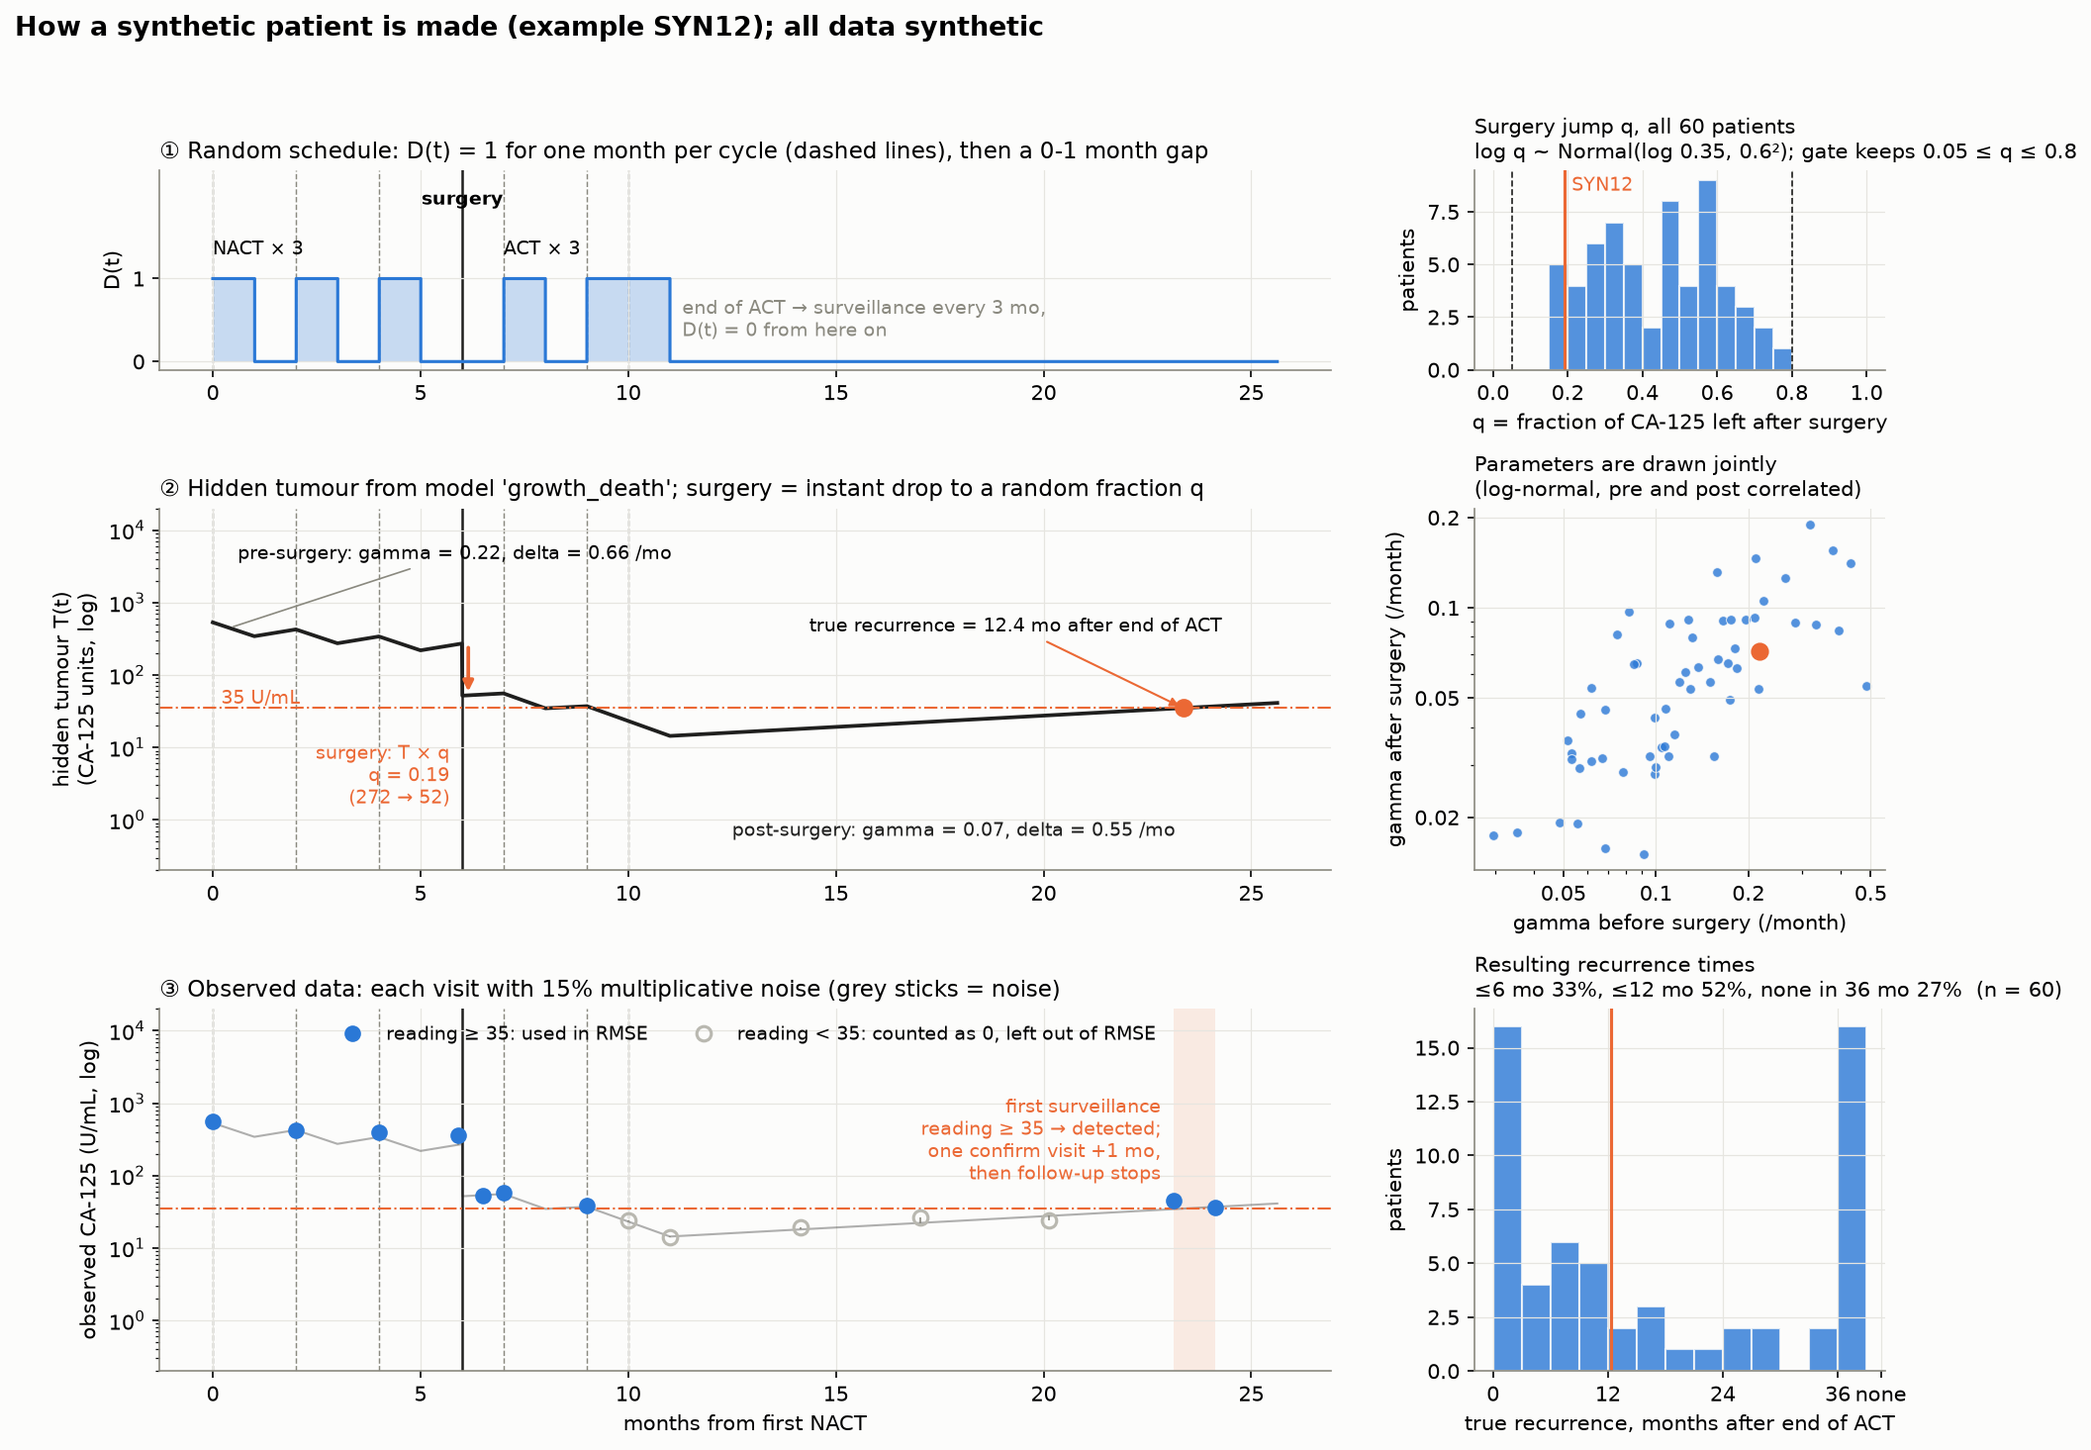
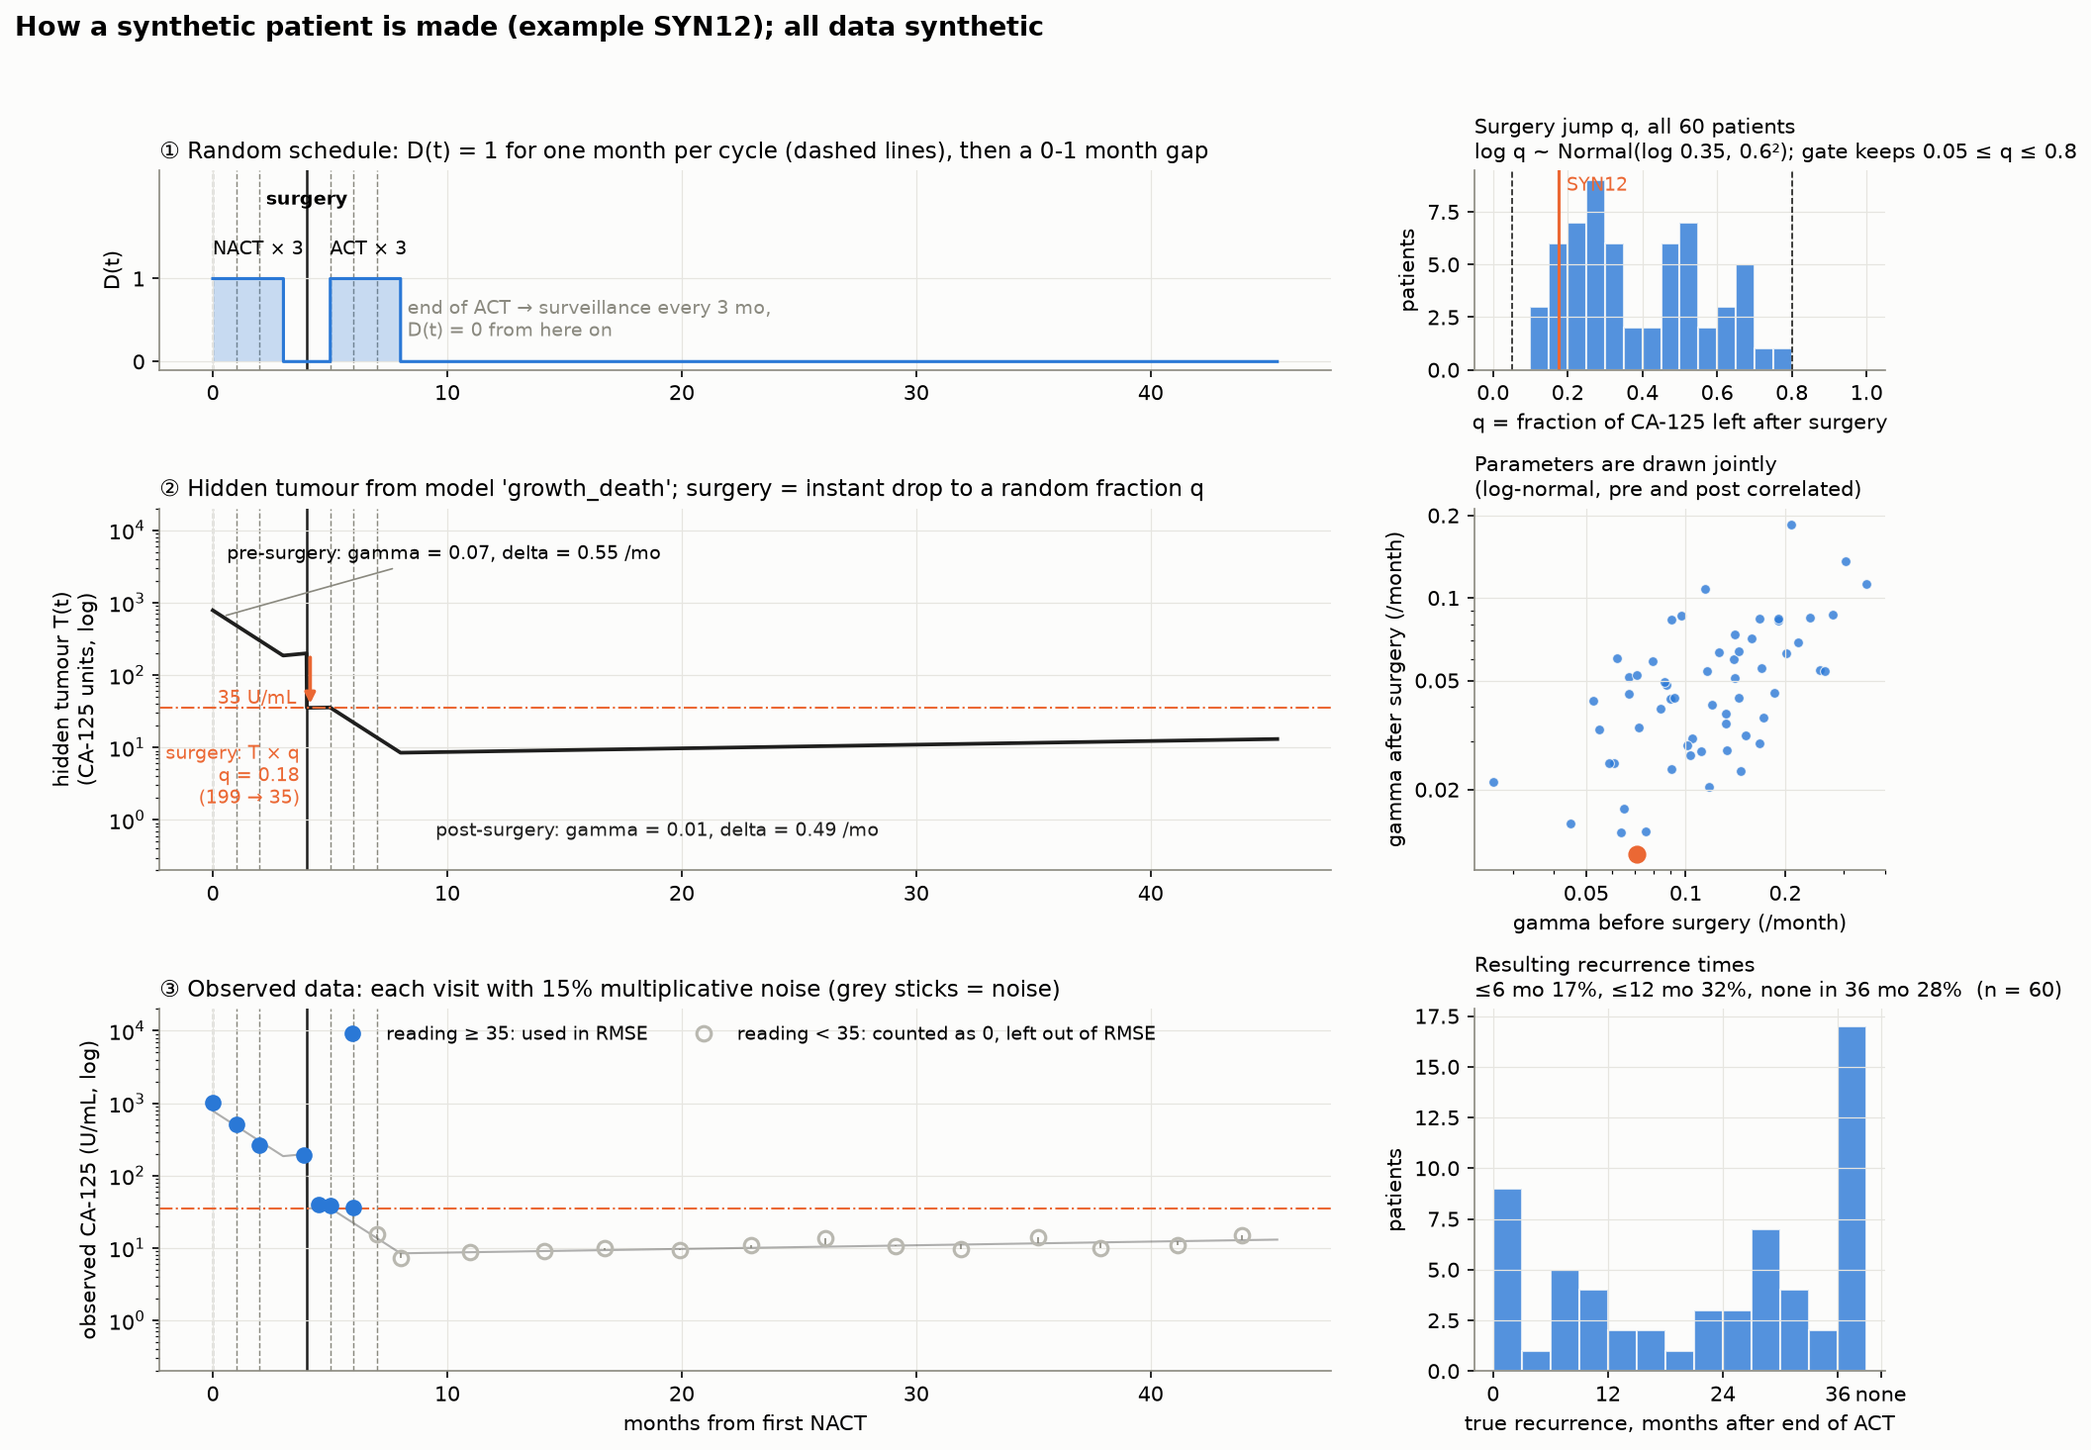
Daily synthetic data format: one CSV row per patient-day
- data/synthetic_data.csv replaces the previous CSVs. Core columns: tumor_burden (model
  value), CA125 (with noise), time (day), treatment_applied (D(t)).
- Auxiliary columns: patient, model, cohort and per-patient seeds, phase, visit flag,
  noise level, model parameters, q, schedule and true/detected recurrence.
- Clinic readings are the daily rows on visit days; load() rebuilds readings and truth
  from the single file. Each patient has its own seed and can be regenerated alone.

diff --git a/ovca/generator.py b/ovca/generator.py
@@ -4,13 +4,14 @@ Two steps, usable on their own:
   1. sample_parameters(): typical-patient values + population spread -> one PatientParameters
      (model parameters before/after surgery, baseline CA-125, surgery fraction q, schedule).
      You can also build a PatientParameters by hand and skip this step.
-  2. generate_longitudinal(): PatientParameters + model -> CA-125 readings at clinic visits,
+  2. generate_longitudinal(): PatientParameters + model -> daily tumour burden and CA-125,
      with assay noise, surveillance and recurrence detection, plus the true recurrence time.
 
 generate_cohort() repeats both for N patients.  Run:  .venv/bin/python -m ovca.generator
-Outputs (data/): synthetic_ca125.csv and synthetic_treatments.csv (what a clinician would see:
-readings, and treatment cycles and surgery) and synthetic_truth.csv (true parameters and
-recurrence times, for checking only).
+Output: data/synthetic_data.csv, one row per patient-day. Columns: tumor_burden (model value),
+CA125 (with noise), time (day), treatment_applied (D(t)), then auxiliary columns: patient,
+model, seeds, phase, visit (1 = clinic reading that day), noise_sd_log, model parameters,
+ca125_0, q_surgery, schedule and true recurrence (these are in months).
 """
 from pathlib import Path
 
@@ -19,7 +20,7 @@ import pandas as pd
 
 from . import config as C
 from .models import BaseModel, get_model
-from .patient import PatientParameters, Schedule
+from .patient import PatientParameters, Schedule, drug_on
 
 DATA = Path(__file__).resolve().parents[1] / "data"
 
@@ -113,76 +114,114 @@ def visit_times(p: PatientParameters, rng):
                            s.act_starts, [s.t_end], surv])
 
 
-def treatment_table(p: PatientParameters):
-    """One row per treatment event: NACT and ACT cycles (start, end) and surgery."""
+DAILY_COLUMNS = ["tumor_burden", "CA125", "time", "treatment_applied"]
+DATA_FILE = "synthetic_data.csv"
+
+
+def daily_table(model: BaseModel, p: PatientParameters, rng, noise_sd=C.NOISE_SD_LOG,
+                seeds=None):
+    """One row per day from day 0 to the end of follow-up (end of ACT + FOLLOWUP_MONTHS).
+
+    tumor_burden: the generating model's noise-free value; CA125: tumor_burden with
+    multiplicative noise; time: day; treatment_applied: D(t), 1 while a cycle is on, else 0.
+    """
     s = p.schedule
-    rows = [dict(patient=p.patient_id, treatment="NACT", cycle=i + 1, start_month=x,
-                 end_month=x + s.duration) for i, x in enumerate(s.nact_starts)]
-    rows.append(dict(patient=p.patient_id, treatment="surgery", cycle=np.nan,
-                     start_month=s.t_surgery, end_month=s.t_surgery))
-    rows += [dict(patient=p.patient_id, treatment="ACT", cycle=i + 1, start_month=x,
-                  end_month=x + s.duration) for i, x in enumerate(s.act_starts)]
-    return pd.DataFrame(rows)
+    days = np.arange(0, int(round((s.t_end + C.FOLLOWUP_MONTHS) * C.DAYS_PER_MONTH)) + 1)
+    t = days / C.DAYS_PER_MONTH
+    burden = model.simulate_patient(t, p)
+    iv = np.vstack([s.intervals("pre"), s.intervals("post")])
+    return pd.DataFrame({"tumor_burden": burden,
+                         "CA125": burden * np.exp(rng.normal(0, noise_sd, days.size)),
+                         "time": days,
+                         "treatment_applied": drug_on(t, iv).astype(int),
+                         "patient": p.patient_id, "model": p.model, **(seeds or {}),
+                         "phase": np.where(t < s.t_surgery, "pre", "post"),
+                         "noise_sd_log": noise_sd})
 
 
 def generate_longitudinal(model: BaseModel, p: PatientParameters, rng,
-                          noise_sd=C.NOISE_SD_LOG, cutoff=C.CA125_CUTOFF):
-    """CA-125 readings for one patient, and a truth record.
+                          noise_sd=C.NOISE_SD_LOG, cutoff=C.CA125_CUTOFF, seeds=None):
+    """The daily data of one patient, plus its clinic readings and truth record.
 
-    Recurrence is detected at the first surveillance reading >= cutoff; one confirming visit
-    follows a month later, then follow-up stops.
+    Clinic readings are the rows on visit days (flagged visit = 1), so a visit shows exactly the
+    CA125 of that day. Recurrence is detected at the first surveillance reading >= cutoff; one
+    confirming visit follows a month later, then clinic visits stop. The daily rows always run
+    to the end of follow-up. Patient parameters, schedule and true recurrence are added as
+    constant columns.
     """
     s = p.schedule
-    t = visit_times(p, rng)
-    true = model.simulate_patient(t, p)
-    noisy = true * np.exp(rng.normal(0, noise_sd, t.size))
-    obs = pd.DataFrame(dict(patient=p.patient_id, month=np.round(t, 4),
-                            phase=np.where(t < s.t_surgery, "pre", "post"),
-                            ca125=noisy, ca125_true=true))
-    is_surv = obs.month > s.t_end + 1e-6
-    hit = obs[is_surv & (obs.ca125 >= cutoff)]
+    daily = daily_table(model, p, rng, noise_sd, seeds)
+    vdays = np.unique(np.clip(np.round(visit_times(p, rng) * C.DAYS_PER_MONTH).astype(int),
+                              0, daily.time.iloc[-1]))
+    d = daily.set_index("time")
+    is_surv = vdays / C.DAYS_PER_MONTH > s.t_end + 1e-6
+    hit = vdays[is_surv & (d.loc[vdays, "CA125"].values >= cutoff)]
     t_det = np.inf
-    if len(hit):
-        t_det = float(hit.month.iloc[0])
-        obs = obs[~is_surv | (obs.month <= t_det + 1e-6)]
-        tc = t_det + 1.0
-        Tc = float(model.simulate_patient([tc], p)[0])
-        obs = pd.concat([obs, pd.DataFrame([dict(
-            patient=p.patient_id, month=round(tc, 4), phase="post",
-            ca125=Tc * float(np.exp(rng.normal(0, noise_sd))), ca125_true=Tc)])],
-            ignore_index=True)
+    if hit.size:
+        t_det = hit[0] / C.DAYS_PER_MONTH
+        vdays = vdays[~is_surv | (vdays <= hit[0])]
+        if hit[0] + C.DAYS_PER_MONTH in d.index:
+            vdays = np.append(vdays, hit[0] + C.DAYS_PER_MONTH)
+    daily["visit"] = daily.time.isin(vdays).astype(int)
     tau = recurrence_time(model, p, cutoff)
-    truth = dict(**p.to_record(), true_recurrence_abs=tau,
+    truth = dict(**p.to_record(), **(seeds or {}), true_recurrence_abs=tau,
                  true_recurrence_rel=tau - s.t_end, t_detected=t_det)
-    return obs.reset_index(drop=True), truth
+    for k, v in truth.items():
+        if k not in daily.columns:
+            daily[k] = v
+    return daily, readings(daily), truth
+
+
+def readings(data):
+    """Clinic readings (visit = 1 rows) in the shape calibration uses."""
+    v = data[data.visit == 1]
+    return pd.DataFrame(dict(patient=v.patient.values, day=v.time.values,
+                             month=np.round(v.time.values / C.DAYS_PER_MONTH, 4),
+                             phase=v.phase.values, ca125=v.CA125.values,
+                             ca125_true=v.tumor_burden.values))
+
+
+def truth_table(data):
+    """One row per patient: parameters, schedule, seeds and true recurrence."""
+    per_day = set(DAILY_COLUMNS) | {"phase", "visit", "noise_sd_log"}
+    cols = [c for c in data.columns if c not in per_day]
+    return data.groupby("patient", sort=False)[cols[1:]].first().reset_index()
 
 
 def generate_cohort(model: BaseModel, n=C.N_PATIENTS, seed=C.SEED):
-    """Returns (readings, truth, treatments) DataFrames."""
-    rng = np.random.default_rng(seed)
-    all_obs, truths, treats = [], [], []
+    """Returns (data, readings, truth): data has one row per patient-day.
+
+    Each patient gets its own seed (drawn from the cohort seed), so one patient can be
+    regenerated on its own with generate_patient(model, pid, patient_seed).
+    """
+    patient_seeds = np.random.default_rng(seed).integers(0, 2**31 - 1, n)
+    days = []
     for i in range(n):
-        p = sample_parameters(rng, model, f"SYN{i + 1:02d}")
-        obs, truth = generate_longitudinal(model, p, rng)
-        all_obs.append(obs)
-        truths.append(truth)
-        treats.append(treatment_table(p))
-    return (pd.concat(all_obs, ignore_index=True), pd.DataFrame(truths),
-            pd.concat(treats, ignore_index=True))
+        _, (daily, _, _) = generate_patient(model, f"SYN{i + 1:02d}", int(patient_seeds[i]), seed)
+        days.append(daily)
+    data = pd.concat(days, ignore_index=True)
+    return data, readings(data), truth_table(data)
 
 
-def save(obs, truth, treatments, folder=DATA):
+def generate_patient(model: BaseModel, patient_id, patient_seed, cohort_seed=None):
+    """Parameters and data of one patient from its own seed."""
+    rng = np.random.default_rng(patient_seed)
+    p = sample_parameters(rng, model, patient_id)
+    seeds = dict(cohort_seed=cohort_seed, patient_seed=patient_seed)
+    return p, generate_longitudinal(model, p, rng, seeds=seeds)
+
+
+def save(data, folder=DATA):
+    """data/synthetic_data.csv: the four core columns first, then the auxiliary ones."""
     folder.mkdir(exist_ok=True)
-    obs[["patient", "month", "phase", "ca125"]].to_csv(folder / "synthetic_ca125.csv", index=False)
-    treatments.to_csv(folder / "synthetic_treatments.csv", index=False)
-    obs.to_csv(folder / "synthetic_ca125_with_truth.csv", index=False)
-    truth.to_csv(folder / "synthetic_truth.csv", index=False)
+    cols = DAILY_COLUMNS + [c for c in data.columns if c not in DAILY_COLUMNS]
+    data[cols].to_csv(folder / DATA_FILE, index=False, float_format="%.6g")
 
 
 def load(folder=DATA):
-    obs = pd.read_csv(folder / "synthetic_ca125_with_truth.csv")
-    truth = pd.read_csv(folder / "synthetic_truth.csv")
-    return obs, truth
+    """Returns (readings, truth) rebuilt from data/synthetic_data.csv."""
+    data = pd.read_csv(folder / DATA_FILE)
+    return readings(data), truth_table(data)
 
 
 def summary(obs, truth):
@@ -193,8 +232,8 @@ def summary(obs, truth):
 
 
 def main(model_name="growth_death", n=C.N_PATIENTS, seed=C.SEED):
-    obs, truth, treatments = generate_cohort(get_model(model_name), n, seed)
-    save(obs, truth, treatments)
+    data, obs, truth = generate_cohort(get_model(model_name), n, seed)
+    save(data)
     print(summary(obs, truth))
     return obs, truth
 

diff --git a/tests/test_ovca.py b/tests/test_ovca.py
@@ -80,11 +80,46 @@ def test_new_model_through_generator_and_calibration():
     p = generator.sample_parameters(np.random.default_rng(3), m, "L", population=dict(
         names=["r_pre", "delta_pre", "r_post", "delta_post"], median=[0.3, 1.2, 0.3, 1.2],
         sd_log=[0.01] * 4, corr=np.eye(4)))
-    obs, truth = generator.generate_longitudinal(m, p, np.random.default_rng(4), noise_sd=0.0)
+    daily, obs, truth = generator.generate_longitudinal(m, p, np.random.default_rng(4), noise_sd=0.0)
     assert np.isfinite(obs.ca125).all() and truth["model"] == "logistic_test"
     t, y, iv = calibration.segment_data(obs, p.schedule, "pre")
     f = calibration.fit_segment(m, t, y, iv)
     assert f["fitted"] and f["rmse"] < 1e-3 * y.max()
+
+
+def test_daily_table_format():
+    m = get_model("growth_death")
+    rng = np.random.default_rng(5)
+    p = generator.sample_parameters(rng, m, "D")
+    daily, obs, _ = generator.generate_longitudinal(m, p, rng)
+    assert list(daily.columns[:4]) == generator.DAILY_COLUMNS
+    assert (np.diff(daily.time) == 1).all() and daily.time.iloc[0] == 0
+    # D(t) = 1 for exactly 30 days per cycle
+    n_cycles = len(p.schedule.nact_starts) + len(p.schedule.act_starts)
+    assert daily.treatment_applied.sum() == n_cycles * generator.C.DAYS_PER_MONTH
+    # clinic readings are the daily values on visit days
+    d = daily.set_index("time")
+    assert np.allclose(obs.ca125.values, d.loc[obs.day, "CA125"].values)
+
+
+def test_patient_seed_reproduces_patient():
+    m = get_model("growth_death")
+    data, _, truth = generator.generate_cohort(m, n=3, seed=11)
+    r = truth.iloc[2]
+    _, (d2, _, _) = generator.generate_patient(m, r.patient, int(r.patient_seed), 11)
+    assert np.allclose(data[data.patient == r.patient].CA125.values, d2.CA125.values)
+
+
+def test_save_and_load_roundtrip(tmp_path=None):
+    import tempfile
+    folder = Path(tmp_path or tempfile.mkdtemp())
+    m = get_model("growth_death")
+    data, obs, truth = generator.generate_cohort(m, n=2, seed=12)
+    generator.save(data, folder)
+    obs2, truth2 = generator.load(folder)
+    assert len(obs2) == len(obs) and np.allclose(obs2.ca125, obs.ca125, rtol=1e-5)
+    assert list(truth2.patient) == list(truth.patient)
+    assert np.allclose(truth2.q_surgery, truth.q_surgery, rtol=1e-5)
 
 
 if __name__ == "__main__":

diff --git a/run_pipeline.py b/run_pipeline.py
@@ -21,8 +21,8 @@ if __name__ == "__main__":
     gen, fit = get_model(a.gen_model), get_model(a.fit_model)
 
     print(f"== 1. generate synthetic cohort ({gen.name})")
-    obs, truth, treatments = generator.generate_cohort(gen, a.n, a.seed)
-    generator.save(obs, truth, treatments)
+    data, obs, truth = generator.generate_cohort(gen, a.n, a.seed)
+    generator.save(data)
     print(generator.summary(obs, truth))
 
     print(f"\n== 2. RMSE calibration ({fit.name})")

diff --git a/README.md b/README.md
@@ -34,16 +34,32 @@ uv venv .venv && uv pip install --python .venv/bin/python -r requirements.txt
      after surgery; 3 ACT cycles with the same 0–1 month gaps.
    - **Gates** (a failing draw is redrawn): surgery must be a clear jump, CA-125 after/before in
      [0.05, 0.8]; true CA-125 must stay ≥ 5 U/mL until the end of ACT.
-2. **Longitudinal data** (`generator.generate_longitudinal`): the model is simulated before
-   surgery, the state is multiplied by q at surgery, then simulated after surgery with the
-   post-surgery parameters. CA-125 is read at each visit with 15% multiplicative noise; the first
-   surveillance reading ≥ 35 counts as detected recurrence (one confirm visit, then follow-up stops).
+2. **Longitudinal data** (`generator.generate_longitudinal`): the model is simulated day by day
+   before surgery, the state is multiplied by q at surgery, then simulated after surgery with the
+   post-surgery parameters, up to 36 months after the end of ACT. CA-125 = model value with 15%
+   multiplicative noise. Clinic visits (flagged `visit = 1`) are at each cycle start, around
+   surgery, at the end of ACT and every ~3 months after; the first surveillance reading ≥ 35
+   counts as detected recurrence (one confirm visit, then visits stop).
 3. **Calibration** (`calibration.calibrate_cohort`): least squares on RMSE, as in the poster code:
    T0 of each segment = its first reading; readings below 35 count as 0 and are left out of the RMSE.
 
-Outputs: `data/synthetic_ca125.csv` (readings), `data/synthetic_treatments.csv` (NACT/ACT
-cycles with start and end month, and surgery), `data/synthetic_truth.csv` (true parameters and
-recurrence times), `results/calibration.csv`, `figures/0–2_*.png`.
+## Data format
+
+`data/synthetic_data.csv`, one row per patient per day:
+
+| Column | Meaning |
+|---|---|
+| `tumor_burden` | value of the generating model (noise-free) |
+| `CA125` | `tumor_burden` with assay noise |
+| `time` | day since the first NACT cycle |
+| `treatment_applied` | D(t): 1 while a treatment cycle is on, else 0 |
+| `patient`, `model`, `cohort_seed`, `patient_seed` | who and how it was generated (`generator.generate_patient(model, patient, patient_seed)` regenerates one patient) |
+| `phase`, `visit` | `pre`/`post` surgery; 1 on clinic-visit days (the readings calibration uses) |
+| `noise_sd_log`, `gamma_pre`, `delta_pre`, `gamma_post`, `delta_post`, `ca125_0`, `q_surgery` | parameters used |
+| `nact_starts`, `t_surgery`, `act_starts`, `t_end` | schedule, in months |
+| `true_recurrence_abs`, `true_recurrence_rel`, `t_detected` | true and detected recurrence, in months (`inf` = none) |
+
+Other outputs: `results/calibration.csv`, `figures/0–2_*.png`.
 
 ## Adding a model
 
